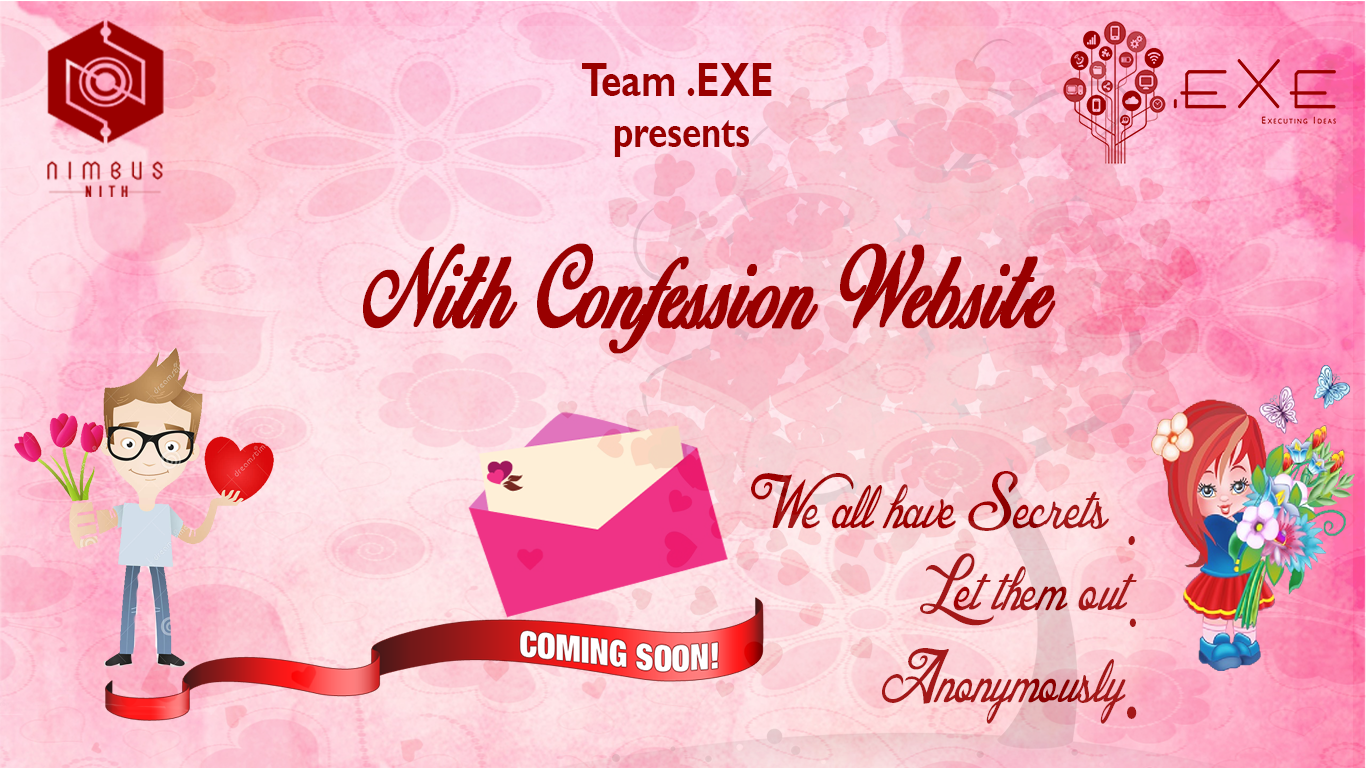
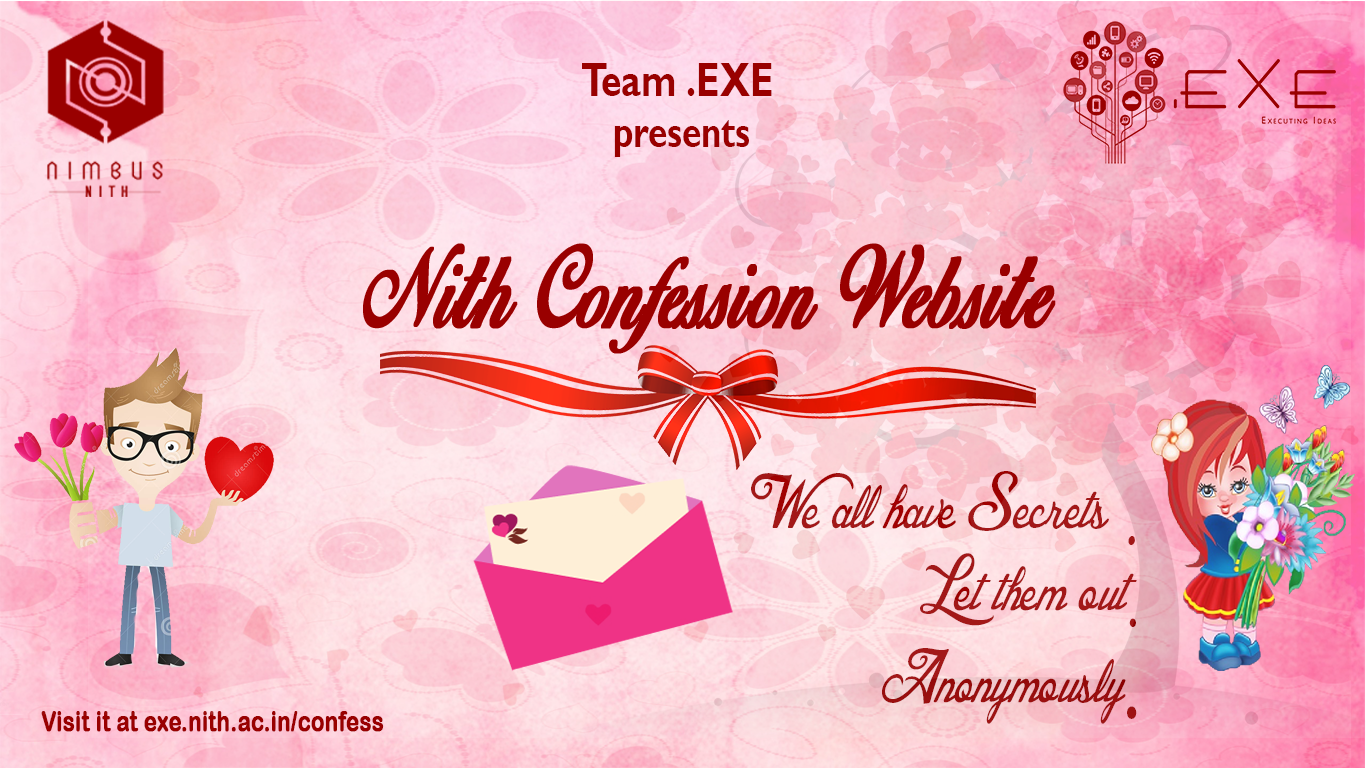
confession website release

diff --git a/index.php b/index.php
@@ -80,7 +80,7 @@ $(document).ready(function () {
 
 });
 </script>
- <img src="images/confess.png" alt="Hunt_the_code( );" style="width: 100%" />
+ <a href="http://exe.nith.ac.in/confess" target="_blank"><img src="images/confess.png" alt="NITH Confessions" style="width: 100%" /></a>
 
 <!-- Projects,events &workshops of Team .EXE -->
 <section id="blog-full-width">
